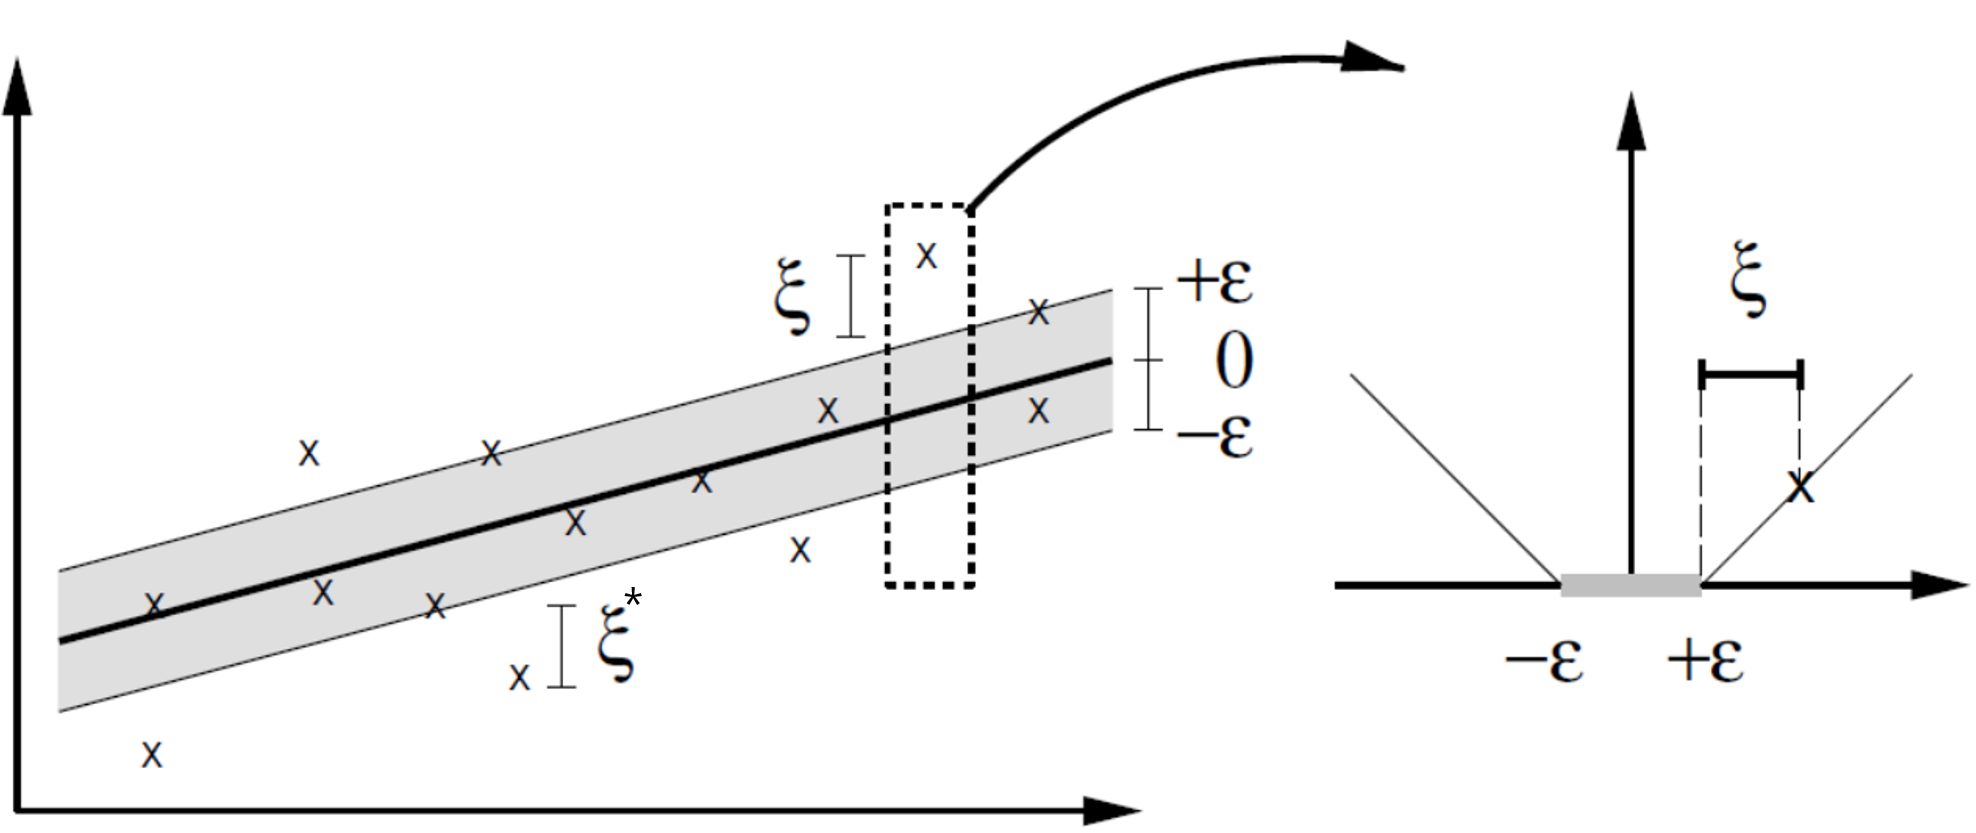
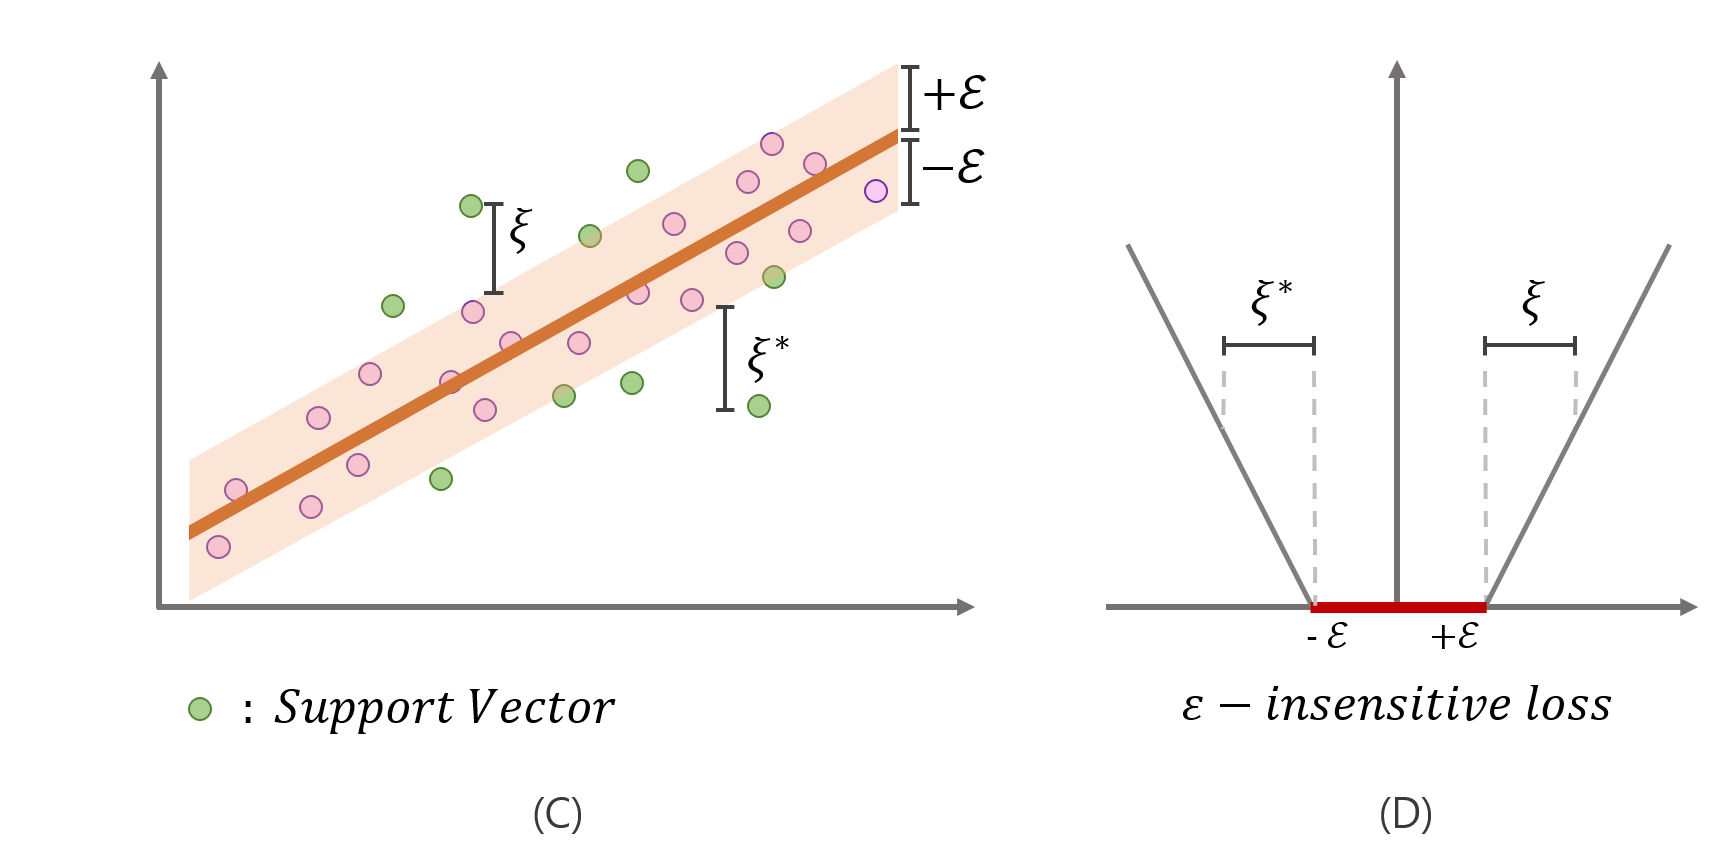
initial commit

diff --git a/_posts/2018-11-17-Support-Vecter-Regression.md b/_posts/2018-11-17-Support-Vecter-Regression.md
@@ -73,7 +73,7 @@ $$
 
 
 
-<p align="center"><img width="600" height="auto" img src="/images/image_68.png"></p>
+<p align="center"><img width="700" height="auto" img src="/images/image_67.png"></p>
 
 
 * ${ \epsilon }$ : 회귀식 위아래 사용자가 지정한 값 $ \propto $ 허용하는 노이즈 정도
@@ -82,7 +82,6 @@ $$
 
 SVR은 회귀식이 추정되면 회귀식 위아래 2${ \epsilon } (- \epsilon,\epsilon)$만큼 튜브를 생성하여, 오른쪽 그림에서처럼 튜브내에 실제 값이 있다면 예측값과 차이가 있더라도 오차가 없다고 가정하여 penalty를 0으로 주고, 튜브 밖에 실제 값이 있다면 C의 배율로 penalty를 부여하게 됩니다.
 
-##여기에 SVM과 비교해도 좋을 듯 St.
 
 결과적으로, SVR의 특징을 정리해보면 다음과 같습니다.
 
@@ -91,7 +90,7 @@ SVR은 회귀식이 추정되면 회귀식 위아래 2${ \epsilon } (- \epsilon,
 
 #### Lagrangian Primal problem
 
-앞서 목적식과 4개의 제약식을 갖춘 original problem을 정의했습니다. 이는 QP(quadratic program)로 바로 optimization solver를 사용해 풀이할 수 있지만, 4개나 되는 제약식을 모두 만족시키며 푸는 것은 쉽지 않을 뿐더러 추후 소개될 커널함수를 사용하게 되면 연산이 굉장히 복잡해지게 됩니다. 따라서 Lagrangian multiplier를 사용하여 제약이 있는 문제를 아래와 같이 제약이 없는 Lagrangian Primal problem으로 변형합니다.
+앞서 목적식과 4개의 제약식을 갖춘 original problem을 정의했습니다. 이는 QP(quadratic program)로 바로 optimization solver를 사용해 풀이할 수 있지만, 4개나 되는 제약식을 모두 만족시키며 푸는 것은 쉽지 않을 뿐더러 추후 소개될 커널함수를 사용하게 되면 연산이 굉장히 복잡해지게 됩니다. 따라서 Lagrangian multiplier를 사용하여 제약이 있는 문제를 아래와 같이 제약이 없는 Lagrangian Primal problem으로 변형함으로써 이런 한계를 극복하게 됩니다.
 
 
 $$
@@ -158,7 +157,7 @@ $$
 
 $$
 \underbrace{ \quad f(x)=\sum_{ i=1 }^{ n }({ \alpha }_{ i }^{ * }-{ \alpha }_{ i })\boldsymbol {x^{T}_{ i }}\boldsymbol {x} + b }_\text{ Regression } \Rightarrow
-\quad b = f(x_{sv}) -\sum_{ i=1 }^{ n }({ \alpha }_{ i }^{ * }-{ \alpha }_{ i })\boldsymbol {x^{T}_{ i }}\boldsymbol {x}_{sv} \tag{4}
+\quad b = f(x) -\sum_{ i=1 }^{ n }({ \alpha }_{ i }^{ * }-{ \alpha }_{ i })\boldsymbol {x^{T}_{ i }}\boldsymbol {x} \tag{4}
 $$
 
 $KKT conditions$ 에 의해 다음과 같은 식을 도출할 수 있습니다. (Complementary slackness 조건)
@@ -183,18 +182,12 @@ $$
 $b$를 구하기 앞서 회귀식을 구축하는데 사용되는 **support vector** 를 구해야합니다. 식(5)와(7)을사용해서 구해보도록 하겠습니다. 먼저 $${ \alpha }_{i} { \neq } 0  $$ 이라면 $$({ \epsilon }+{\xi}_{i} + {y}_{i}-{W}^{T}{x}_{i}-b) = 0$$을 만족해야합니다. 이를 만족한다는 것은 해당 데이터가 튜브 boundary위에 딱 있음을 의미하는데요, 이경우 튜브 밖으로 나간 값이 없으므로 식(7)의 $${\xi}_{i } = 0$$이라 할 수 있습니다. 그렇게 되면 자연스럽게 $$(C- { \alpha }_{i}){ \neq } 0 $$가 성립합니다. 따라서 이경우는 튜브선 위 혹은 그 밖에 있는 데이터를 의미합니다. 반대로 $${ \alpha }_{i}=0$$ 이라면, $${\xi}_{i } { \neq } 0$$ 라면 $$(C- { \alpha }_{i}) = 0 $$이 되어야 합니다. 그렇게 되면$$C = { \alpha }_{i} = 0 $$가 되어 적합하지 않습니다. 식(6),(8)에서도 동일한 결과를 구할 수 있으며 결과적으로 SVR에서의
  **support vector는 튜브선을 포함하여 바깥쪽에 예측이 된 $x_{sv}$**  입니다.
 
-이제 진짜 $b$를 구해봅시다.
-
-결론적으로 아래의 조건을 충족하는 $$x$$만을 (4)식에 대입하게 되면, $$b$$를 구할 수 있게 되는 것이죠. 여기서 support vector의 갯수가 많다면 추정된 $$b$$값의 평균을 구하는 것이 가장 범용적으로 소개된 방법입니다.
-
+이제 진짜 $b$를 구해봅시다.결론적으로 조건$$0<{ \alpha }_{i} <C$$ 와 $$0<{ \alpha }_{i}^{ * } <C$$을 충족하는 $$x_{sv}$$만을 (4)식에 대입하게 되면, $$b$$를 구할 수 있게 되는 것이죠. 즉, 다음과 같이 유도됩니다.
 $$
-0<{ \alpha }_{i} <C
+\quad b = f(x_{sv}) -\sum_{ i=1 }^{ n }({ \alpha }_{ i }^{ * }-{ \alpha }_{ i })\boldsymbol {x^{T}_{ i }}\boldsymbol {x}_{sv}
 $$
+여기서 support vector의 갯수가 많다면 추정된 $$b$$값의 평균을 구하는 것이 가장 범용적으로 소개된 방법입니다.
 
-
-$$
-0<{ \alpha }_{i}^{ * } <C
-$$
 
 
 자 지금까지 긴 여정을 통해 SVR을 사용한 회귀식에 대해 알아보았습니다. 하지만 지금까지 소개한 SVR 회귀식은 **선형성** 만을 띄고 있습니다. 하지만 선형성만으로 데이터를 잘 표현하지 못하는 경우가 있기마련입니다. 이런 경우 매핑함수(mapping function)를 사용하여 문제를 해결합니다. 해당 내용을 더욱 자세히 알아봅시다.
@@ -211,7 +204,7 @@ $$
 p << q
 $$
 
-<p align="center"><img width="600" height="auto" img src="/images/image_69.png"></p>
+<p align="center"><img width="600" height="auto" img src="/images/image_80.png"></p>
 
 결과적으로, 매핑함수를 사용한 SVR의 핵심 내용 정리해보면 다음과 같습니다.
 
@@ -223,23 +216,30 @@ $$
 
 그런데 고차원으로 표현하는 과정은 매우 연산량이 큽니다. 데이터를 고차원으로 매핑하고, 데이터 요소끼리 내적해야하기 때문입니다. 다행히도 SVR은 상대적으로 저차원인 원공간에서 내적을 하고, 고차원공간으로 매핑함으로써 간단히 연산할 수 있는 **kernel trick** 을 도입했습니다. 따라서 트릭을 가능하게 하는 커널함수(kernel function)을 사용합니다.
 <br>
-따라서 다시 오랜만에 Lagrangian Dual Problem을
+따라서 다시 오랜만에 Lagrangian Dual Problem 목적식 으로 돌아가봅시다.
 
+$$
+{ { L }_{ D } =  \frac { 1 }{ 2 } \sum_{ i,j=1 }^{ n }({ \alpha }_{ i }^{ * }-{ \alpha }_{ i })({ \alpha }_{ j }^{ * }-{ \alpha }_{ j }) \boldsymbol {x^{T}_{ i }x_{ j }}-{ \epsilon } \sum_{ i,j=1 }^{ n }({ \alpha }_{ i }^{ * }+{ \alpha }_{ i })+\sum_{ i,j=1 }^{ n }y_{ i }({ \alpha }_{ i }^{ * }-{ \alpha }_{ i })}  
+$$
+해당 식에서 ${x^{T}_{ i }x_{ j }}$에 커널 함수를 사용하여 아래 식과 같이  ${K(x_{ i }x_{ j })}$ 으로 표현하며, 고차원 공간으로 변형해줍니다.
 
 #### Dual Lagrangian problem with Kernel trick
 
 
 $$
- { { L }_{ D } =  \frac { 1 }{ 2 } \sum_{ i,j=1 }^{ n }({ \alpha }_{ i }^{ * }-{ \alpha }_{ i })({ \alpha }_{ j }^{ * }-{ \alpha }_{ j }) \boldsymbol {K(x_{ i }x_{ j })}-{\epsilon} \sum_{ i,j=1 }^{ n }({ \alpha }_{ i }^{ * }+{ \alpha }_{ i })+\sum_{ i,j=1 }^{ n }y_{ i }({ \alpha }_{ i }^{ * }-{ \alpha }_{ i })}  
+{ { L }_{ D } =  \frac { 1 }{ 2 } \sum_{ i,j=1 }^{ n }({ \alpha }_{ i }^{ * }-{ \alpha }_{ i })({ \alpha }_{ j }^{ * }-{ \alpha }_{ j }) \boldsymbol {K(x_{ i }x_{ j })}-{\epsilon} \sum_{ i,j=1 }^{ n }({ \alpha }_{ i }^{ * }+{ \alpha }_{ i })+\sum_{ i,j=1 }^{ n }y_{ i }({ \alpha }_{ i }^{ * }-{ \alpha }_{ i })}  
 $$
 
 
 #### Decision function
 
+$$
+\quad  \sum_{ i=1 }^{ n }({ \alpha }_{ i }^{ * }-{ \alpha }_{ i })\Phi(\boldsymbol{x_{ i }}) \quad \Rightarrow \quad f(x)=\sum_{ i=1 }^{ n }({ \alpha }_{ i }^{ * }-{ \alpha }_{ i })\boldsymbol{K(x_{ i }x_{ j })} + b
+$$
 
-$$
-  \quad  \sum_{ i=1 }^{ n }({ \alpha }_{ i }^{ * }-{ \alpha }_{ i })\Phi(\boldsymbol{x_{ i }}) \quad \Rightarrow \quad f(x)=\sum_{ i=1 }^{ n }({ \alpha }_{ i }^{ * }-{ \alpha }_{ i })\boldsymbol{K(x_{ i }x_{ j })} + b
-$$
+이렇게 구해진 회귀식은 선형으로 수식화했음에도 불구하고, 비선형성을 보여주게됩니다.
+
+
 
 
 ---
@@ -331,7 +331,7 @@ def kernel_matrix(X, kernel, coef0=1.0, degree=3, gamma=0.1):
 ##### Loss function
 앞서 이론설명에서 말했듯, SVR은 ${\epsilon}$-insensitive함수를 제외하고도 다양한 손실함수로 변형하여 사용할 수 있습니다. 익숙한 Gaussian, Polynomial 이외에도 다양한 함수가 존재함을 확인할 수 있습니다.
 
-<p align="center"><img width="650" height="auto" img src="/images/image_4.png"></p>
+<p align="center"><img width="650" height="auto" img src="/images/lossfun.png"></p>
 <p align="center"><img width="650" height="auto" img src="/images/image_3.png"></p>
 각 손실함수를 구현하는 코드와 함께 손실함수의 파라미터 변화에 따라 loss값의 개형이 어떻게 변하는지 각각 비교해봅시다.</p>
 
